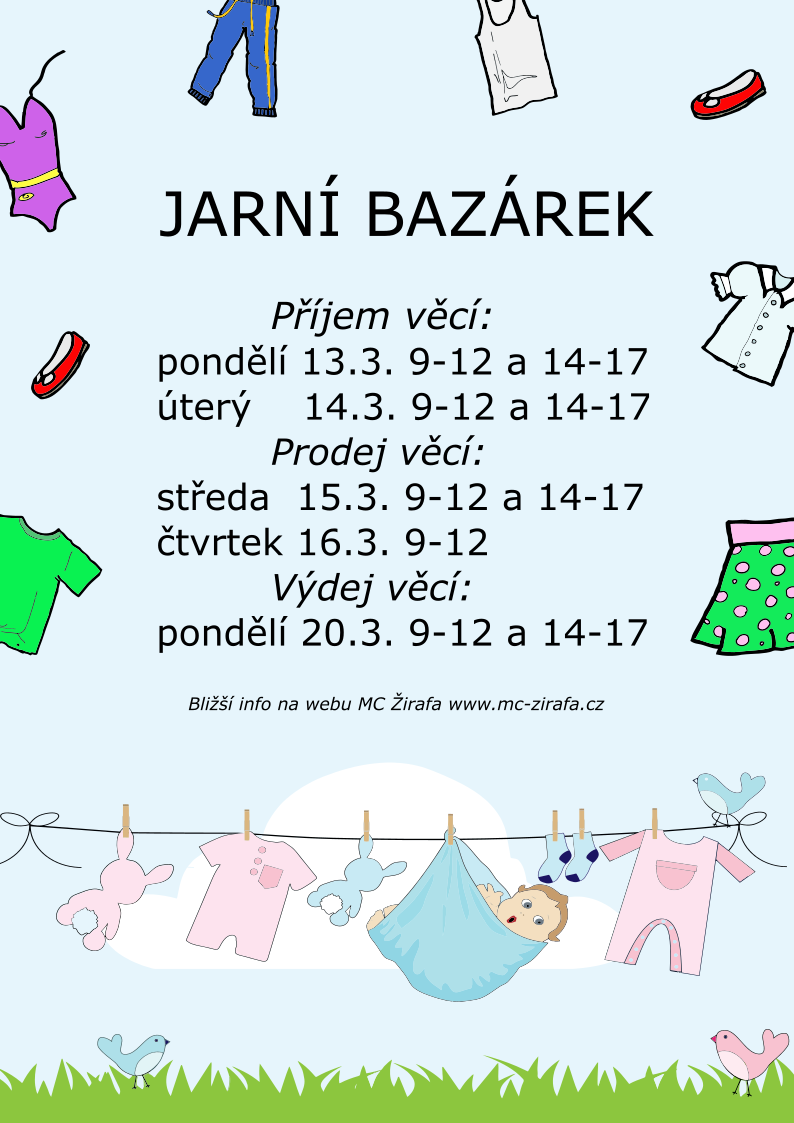
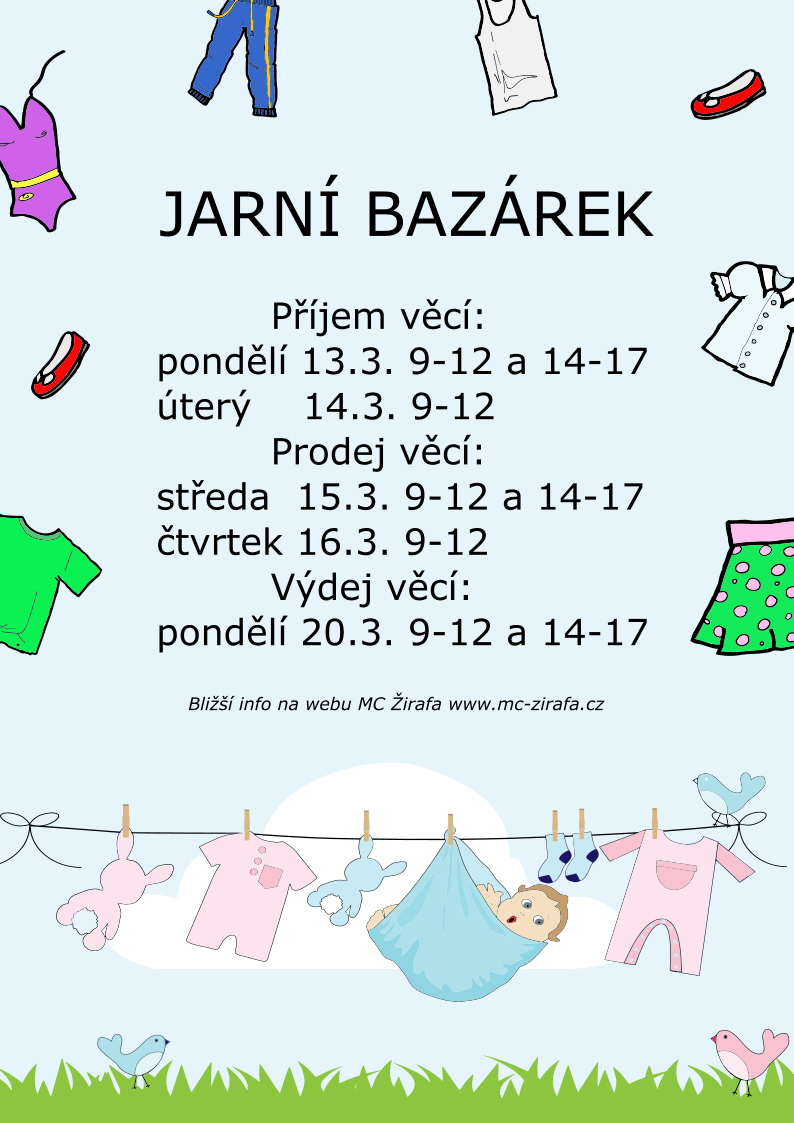
20230310 oprava casu bazarek

diff --git a/akce/20230213_bazarek.md b/akce/20230213_bazarek.md
@@ -10,7 +10,7 @@ tags: akce
 ---
 
 **Příjem věcí:**    pondělí 13.3. 9-12 a 14-17,
-                úterý 14.3. 9-12 a 14-17
+                úterý 14.3. 9-12
 
 **Prodej věcí:**    středa 15.3. 9-12 a 14-17,
                 čtvrtek 16.3. 9-12
